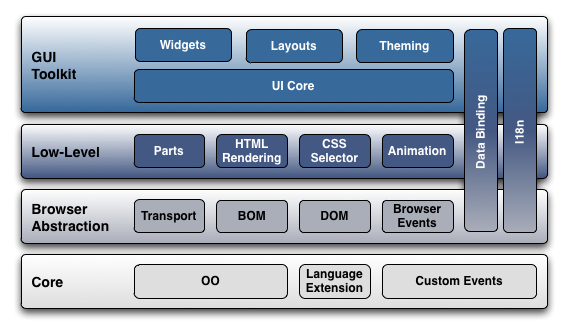
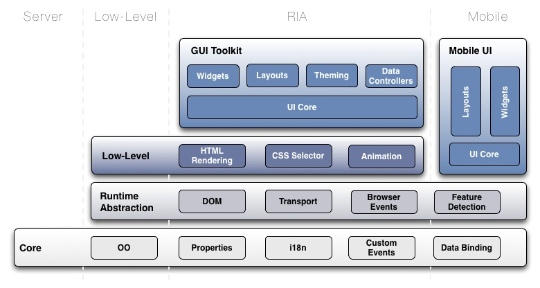
[BUG #5039] Updated the architecture diagram.
git-svn-id: https://qooxdoo.svn.sourceforge.net/svnroot/qooxdoo/trunk/qooxdoo@28027 61aaf1ca-a10e-0410-b9fb-ac63ec25887f

diff --git a/documentation/manual/source/pages/getting_started/architecture.rst b/documentation/manual/source/pages/getting_started/architecture.rst
@@ -8,6 +8,9 @@ Architecture
 UI Architecture
 ===============
 
+The following diagram tries to show the main aspects of qooxdoo and how they are organized in general. Please keep in mind that this diagram does not inlcude all features of qooxdoo.
+You can see the four main areas for which qooxdoo can be used and what layers are useful in that dedicated scenario.
+
 |architecture_ui_new.png|
 
 .. |architecture_ui_new.png| image:: architecture_ui_new.png
